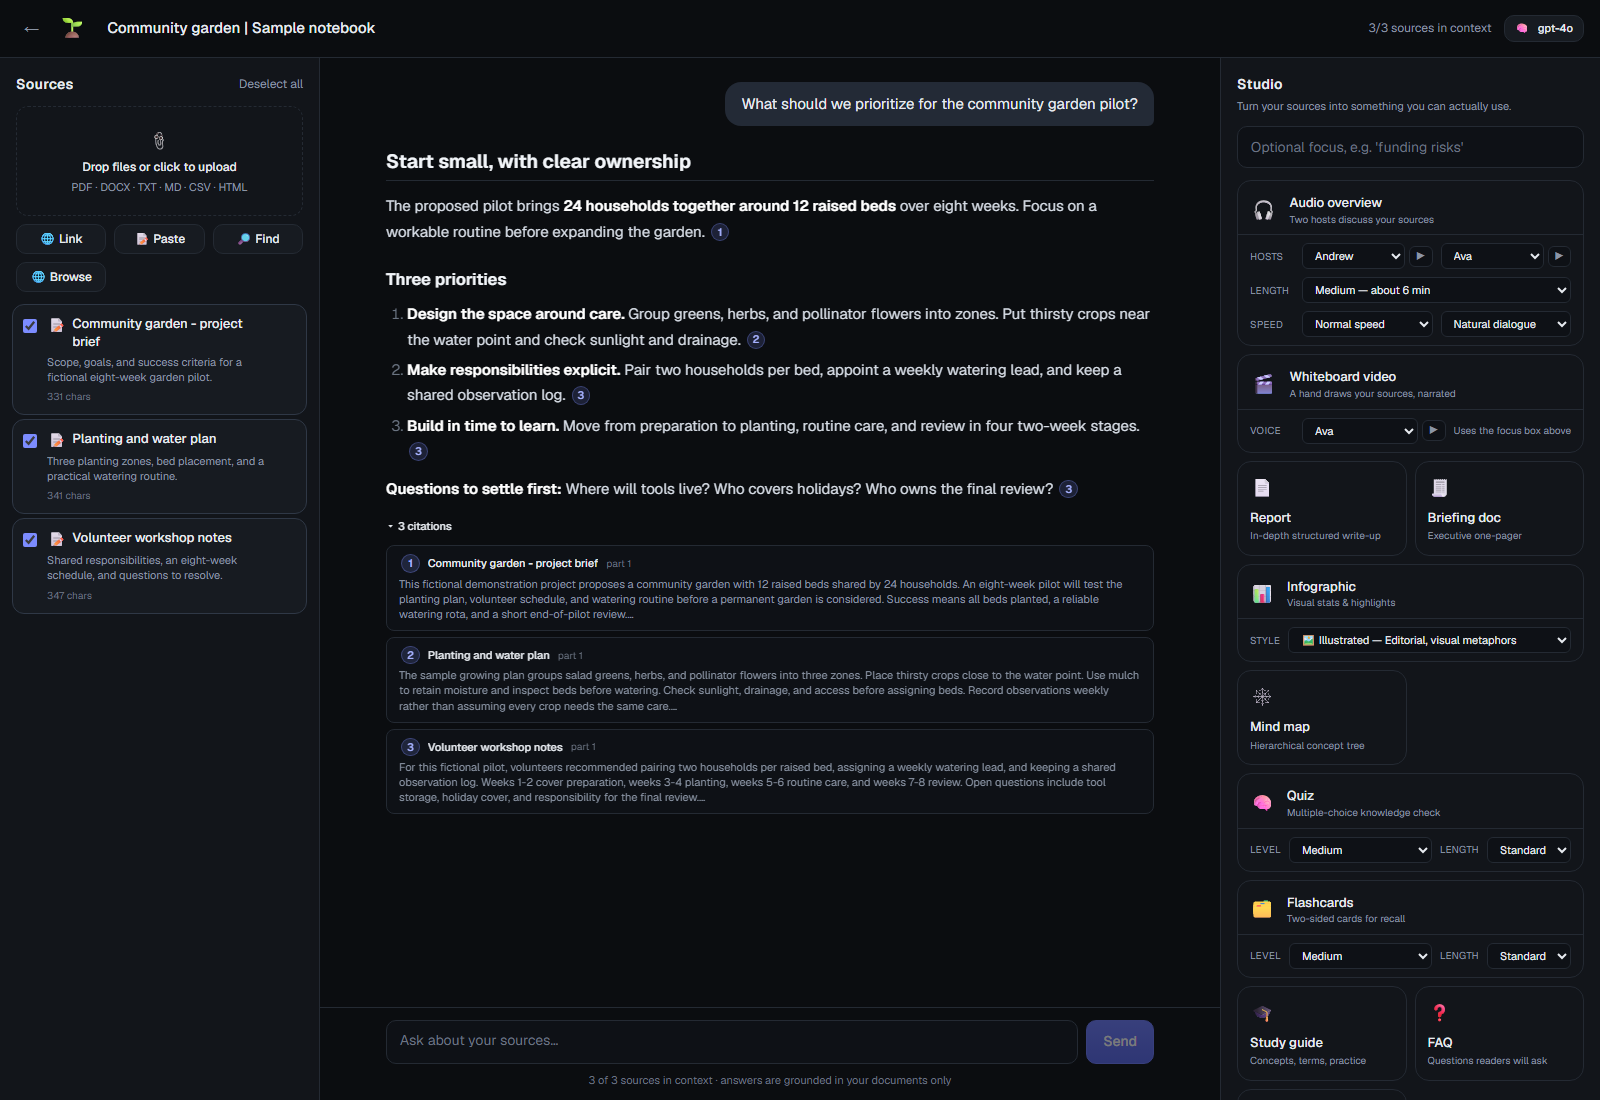
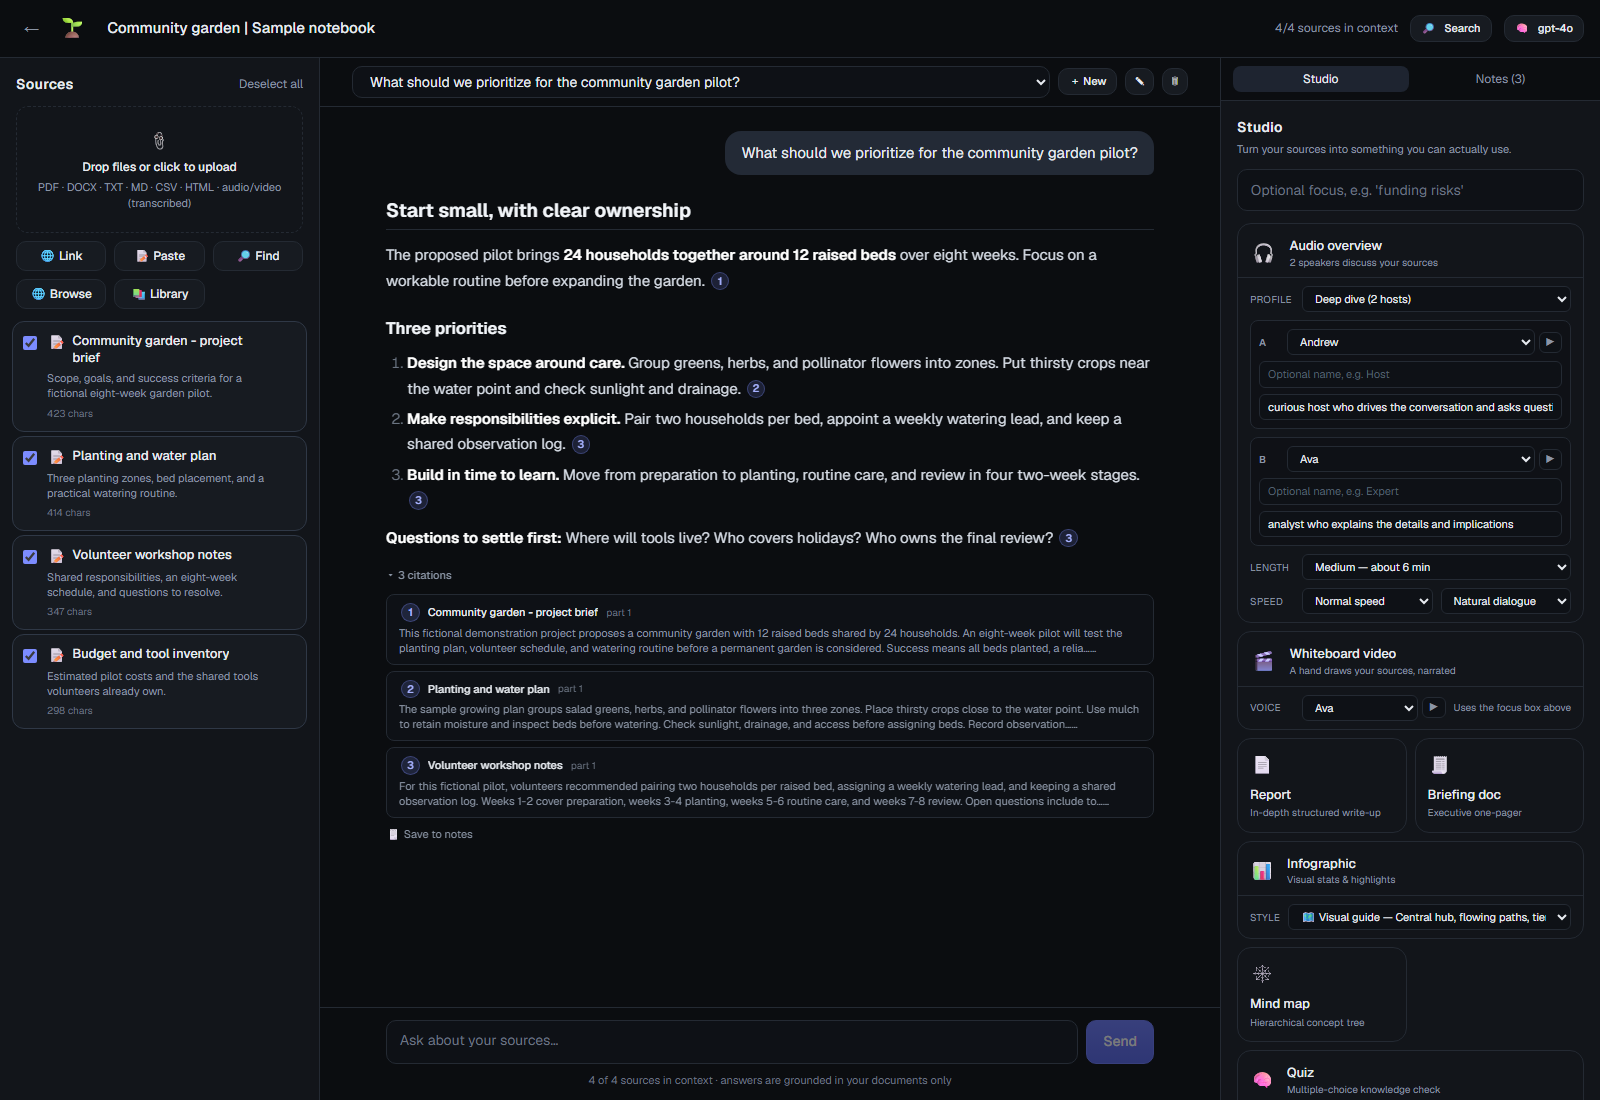
docs: refresh README screenshots for notes, sessions, transformations and search
Replace the workspace screenshot with one showing the chat session bar,
Library, Search and multi-speaker audio controls, and add screenshots of
the Notes panel, Transformations dialog and cross-notebook Ask.

diff --git a/README.md b/README.md
@@ -21,8 +21,10 @@ are all here too.
 **Contents:** [Screenshots](#screenshots) ·
 [What it does](#what-it-does) ·
 [Notes, sessions and search](#notes-sessions-and-search) ·
+[Exporting](#exporting) ·
 [Quick start](#quick-start) ·
 [Docker](#docker) ·
+[Password protection](#password-protection) ·
 [Configuration](#configuration) ·
 [Environment variables](#environment-variables) ·
 [Authentication](#authentication-microsoft-entra-id) ·
@@ -41,14 +43,38 @@ are all here too.
 ## Screenshots
 
 Captured from the app with a fictional community-garden sample notebook.
-Sources, chat responses and artifacts shown here are prepared demo content.
+Sources, chat responses, notes and artifacts shown here are prepared demo content.
 
 ### Research workspace
 
 Sources, cited answers and Studio tools in one view. Expand citations to inspect
-the source excerpts behind an answer.
+the source excerpts behind an answer, switch between chat sessions from the bar
+above the conversation, and cast one to four speakers for an audio overview.
 
-![InfiniAIBook workspace with three selected sources, a cited chat answer and Studio generation tools](docs/screenshots/workspace.png)
+![InfiniAIBook workspace with four selected sources, a chat session picker, a cited chat answer and Studio generation tools including a multi-speaker audio overview](docs/screenshots/workspace.png)
+
+### Notes and chat sessions
+
+The right-hand column flips between Studio and Notes. Keep your own Markdown
+notes alongside saved chat answers and transformation results, each one
+openable, editable and convertible into a source. See
+[Notes, sessions and search](#notes-sessions-and-search).
+
+![Notes panel listing a saved chat answer, an AI-generated action list and a handwritten note, next to a second chat session about the watering rota](docs/screenshots/notes.png)
+
+### Transformations
+
+Eight built-in prompts, plus any you write, that run on one source and save the
+result as a note.
+
+![Transformations dialog listing the eight built-in prompts, from Dense summary to Action items, with a button to add a new one](docs/screenshots/transformations.png)
+
+### Search and Ask across notebooks
+
+Search every notebook's sources and notes at once, or ask one question and get
+a single grounded answer that cites the notebook each passage came from.
+
+![Search your library page with a grounded answer about the watering rota citing sources from three different notebooks](docs/screenshots/search.png)
 
 ### Interactive mind map
 
